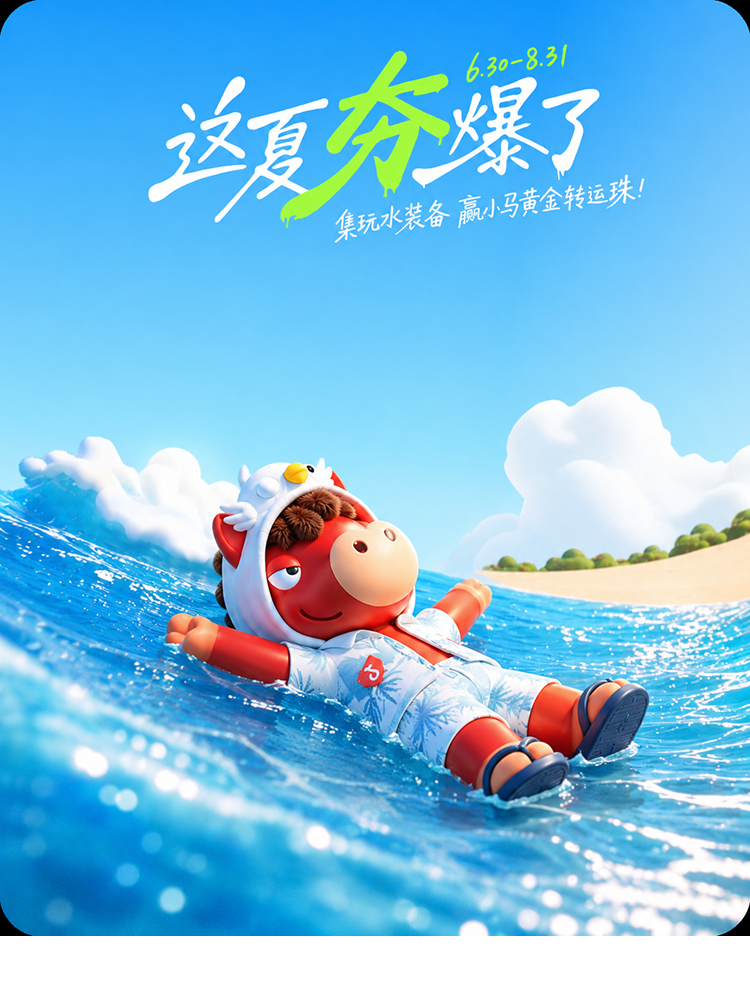
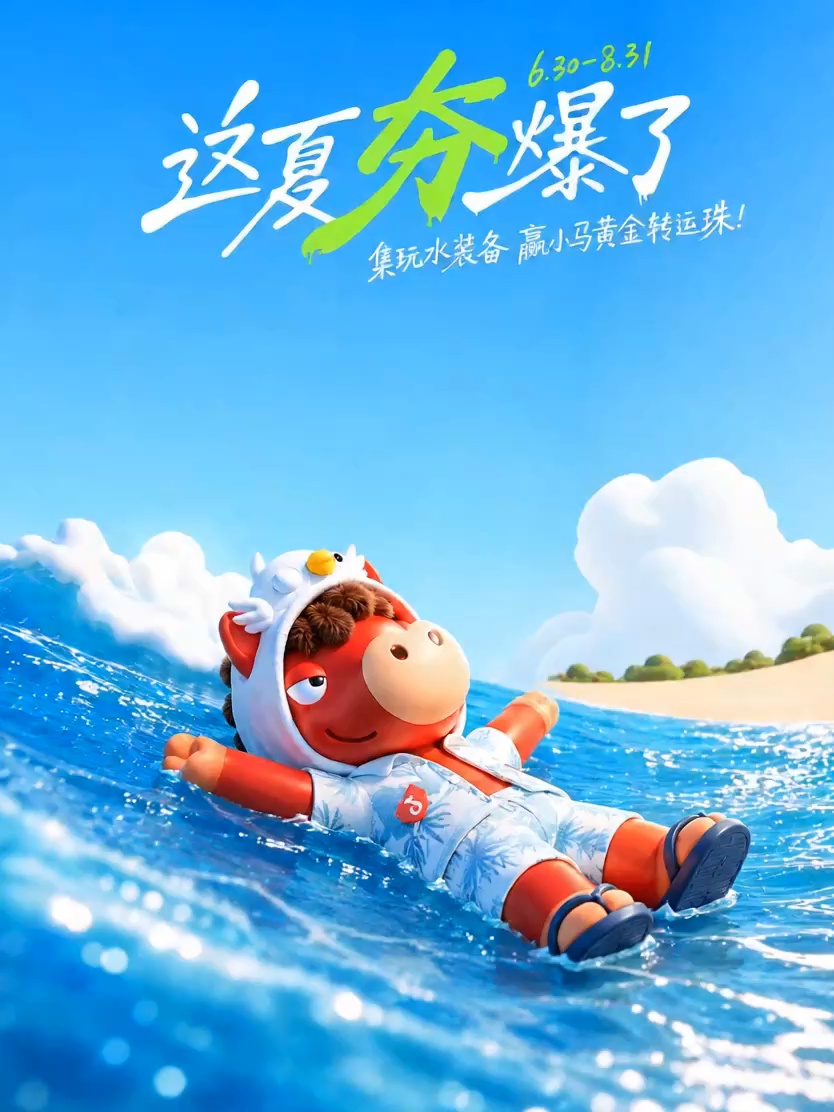
fix: derive hero frames from transition video

diff --git a/app/studio/page.tsx b/app/studio/page.tsx
@@ -1083,6 +1083,38 @@ function normalizeDraft(draft: CampaignSkinDraft): CampaignSkinDraft {
     !draft.pack.assets.collectionHeroComposition &&
     draft.pack.assets.heroMedia.src ===
       "/theme-assets/summer/hero-scene-v2.png";
+  const legacySummerStartFrameAssetId = createStudioAssetId(
+    draft.id,
+    "hero",
+    "main",
+  );
+  const shouldMigrateSummerVideoStartFrame =
+    draft.id === "starter-summer" &&
+    draft.baseTheme === "summer" &&
+    (draft.pack.assets.heroMedia.assetId ===
+      legacySummerStartFrameAssetId ||
+      getStudioAssetIdFromRef(draft.pack.assets.heroMedia.src) ===
+        legacySummerStartFrameAssetId) &&
+    (draft.pack.assets.heroMedia.sourceWidth !== 834 ||
+      draft.pack.assets.heroMedia.sourceHeight !== 1112);
+  const draftComposition =
+    draft.pack.assets.collectionHeroComposition;
+  const legacySummerEndFrameAssetId = createStudioAssetId(
+    draft.id,
+    "hero-end",
+    "main",
+  );
+  const shouldMigrateSummerVideoEndFrame =
+    draft.id === "starter-summer" &&
+    draft.baseTheme === "summer" &&
+    Boolean(draftComposition?.finalReference) &&
+    (draftComposition?.finalReference?.assetId ===
+      legacySummerEndFrameAssetId ||
+      getStudioAssetIdFromRef(
+        draftComposition?.finalReference?.src,
+      ) === legacySummerEndFrameAssetId) &&
+    (draftComposition?.finalReference?.sourceWidth !== 834 ||
+      draftComposition?.finalReference?.sourceHeight !== 1112);
   const sourceComposition =
     draft.pack.assets.collectionHeroComposition ??
     cloneValue(defaultPack.assets.collectionHeroComposition);
@@ -1121,10 +1153,22 @@ function normalizeDraft(draft: CampaignSkinDraft): CampaignSkinDraft {
       assets: {
         ...defaultPack.assets,
         ...draft.pack.assets,
-        heroMedia: shouldMigrateLegacySummerHero
-          ? defaultPack.assets.heroMedia
-          : draft.pack.assets.heroMedia,
-        collectionHeroComposition: normalizedComposition,
+        heroMedia:
+          shouldMigrateLegacySummerHero ||
+          shouldMigrateSummerVideoStartFrame
+            ? cloneValue(defaultPack.assets.heroMedia)
+            : draft.pack.assets.heroMedia,
+        collectionHeroComposition: normalizedComposition
+          ? {
+              ...normalizedComposition,
+              finalReference: shouldMigrateSummerVideoEndFrame
+                ? cloneValue(
+                    defaultPack.assets.collectionHeroComposition!
+                      .finalReference!,
+                  )
+                : normalizedComposition.finalReference,
+            }
+          : undefined,
       },
       colors: {
         ...defaultPack.colors,
@@ -2851,7 +2895,7 @@ export default function CampaignStudio() {
       const assetId = createStudioAssetId(
         activeDraft.id,
         "hero",
-        "main",
+        `main-${Date.now()}`,
       );
       const src = await cacheStudioFile(assetId, file);
       const isVideo = file.type.startsWith("video/");
@@ -2913,7 +2957,7 @@ export default function CampaignStudio() {
       const assetId = createStudioAssetId(
         activeDraft.id,
         "hero-end",
-        "main",
+        `main-${Date.now()}`,
       );
       const src = await cacheStudioFile(assetId, file);
       const size = await readImageSize(src);

diff --git a/app/campaign-theme-packs.ts b/app/campaign-theme-packs.ts
@@ -118,10 +118,11 @@ export const THEME_PACKS: Record<ThemeId, CampaignThemePack> = {
       heroMedia: {
         type: "image",
         src: "/theme-assets/summer/hero-layer-base.png",
+        assetId: "builtin:summer:hero:start:video-native-v1",
         fit: "cover",
         position: "center top",
-        sourceWidth: 750,
-        sourceHeight: 1000,
+        sourceWidth: 834,
+        sourceHeight: 1112,
       },
       collectionHeroComposition: {
         enabled: true,
@@ -129,10 +130,11 @@ export const THEME_PACKS: Record<ThemeId, CampaignThemePack> = {
         finalReference: {
           type: "image",
           src: "/theme-assets/summer/hero-scene-v2.png",
+          assetId: "builtin:summer:hero:end:video-native-v1",
           fit: "cover",
           position: "center top",
-          sourceWidth: 750,
-          sourceHeight: 1000,
+          sourceWidth: 834,
+          sourceHeight: 1112,
         },
         layers: [
           {
